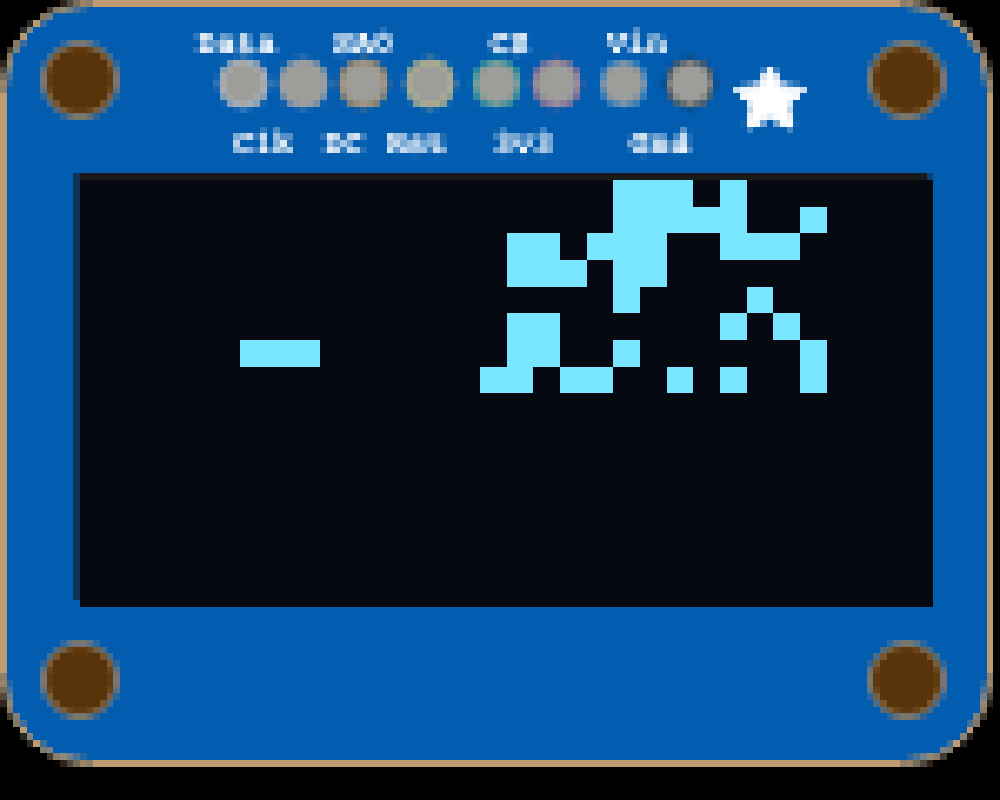
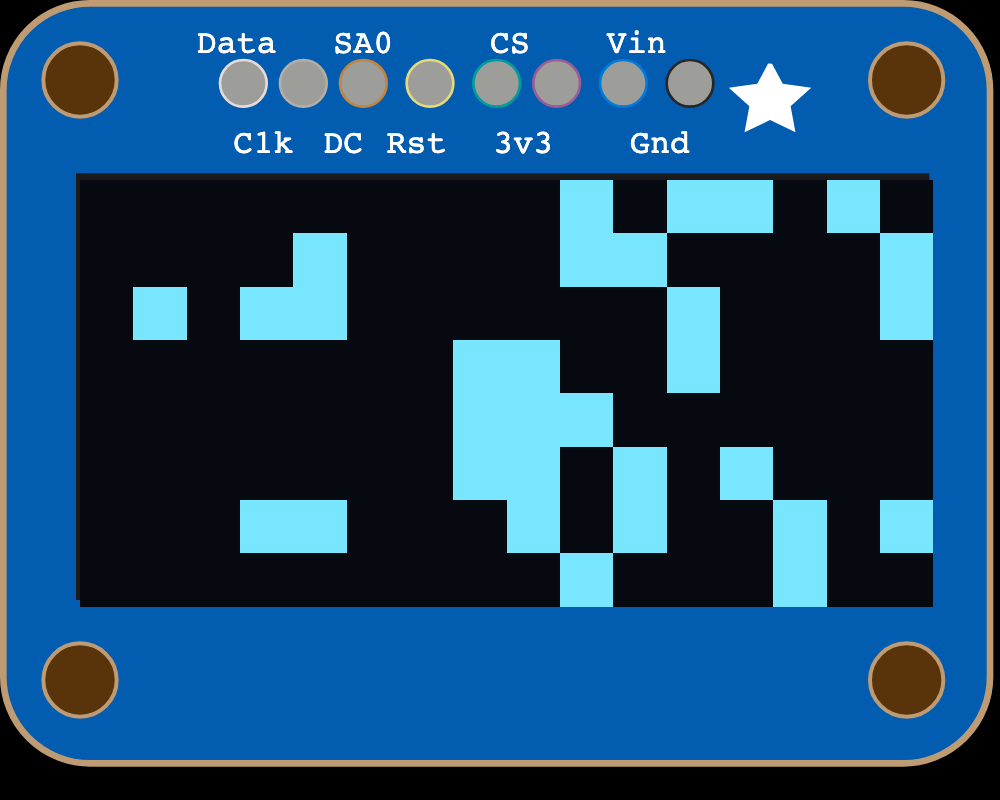
feat(blog): switch the post's images to the 128x64 panel
The gif, the two stills, and the cover now render the updated 128x64
example. Added a line stating plainly that this 128x64 version has not
itself been flashed to real hardware, unlike the 128x32 build the hang
story above happened on.

diff --git a/src/data/post/the-oled-that-froze.md b/src/data/post/the-oled-that-froze.md
@@ -61,9 +61,11 @@ With the fix in, the variant that used to freeze came up and stayed up. The seri
 
 The animation below is not a recreation. It comes from decoding the real I2C bytes the compiled firmware sends on the wire, the same `SET_COL_ADDR` / `SET_PAGE_ADDR` / framebuffer-write sequence a real SSD1306 module receives, captured by running the firmware on an emulated Arduino Uno and recording the bus. The firmware was checked pixel for pixel against the same unmodified driver sources run under plain CPython with a fake I2C bus standing in for the hardware, across all 46 frames: it reproduces exactly the board the program computes, not an approximation of it.
 
+It shows the current version of the example, which targets a 128x64 panel rather than the 128x32 one the hang described above happened on, and which has not itself been flashed to a real board yet; only the emulator and the CPython comparison back it so far.
+
 <img
   src="/images/examples/game-of-life.gif"
-  alt="Conway's Game of Life evolving on a 128x32 SSD1306 OLED, rendered from the I2C bytes an emulated Arduino Uno sends"
+  alt="Conway's Game of Life evolving on a 128x64 SSD1306 OLED, rendered from the I2C bytes an emulated Arduino Uno sends"
 />
 
 <small>OLED module artwork from [wokwi-elements](https://github.com/wokwi/wokwi-elements) (MIT)</small>
